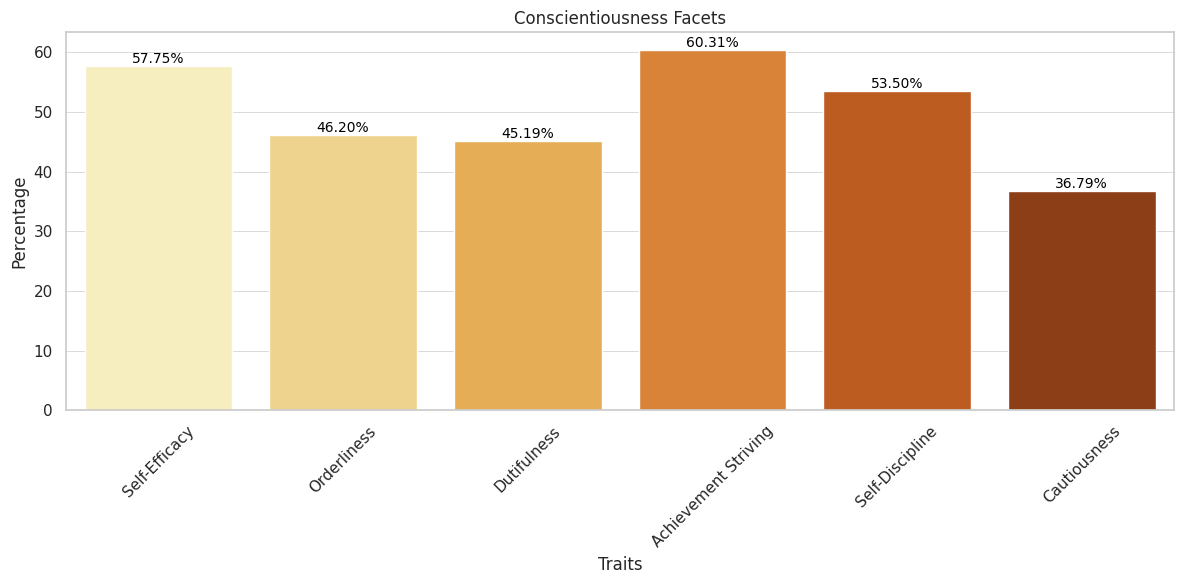
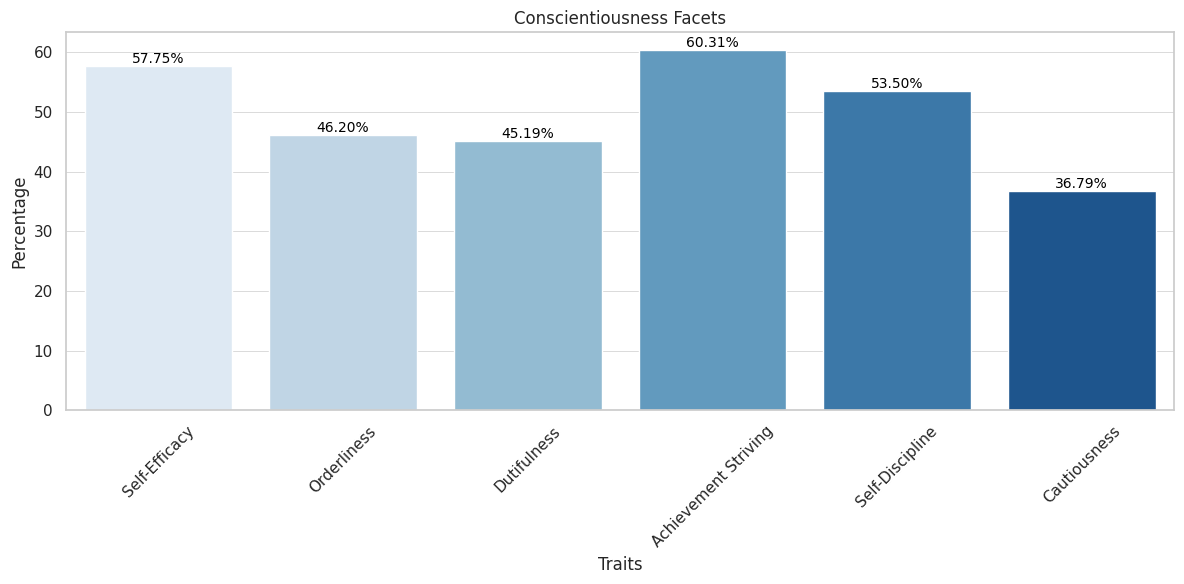
feat: Color standardization :alien:

diff --git a/products/persona-predict/notebooks/utility.py b/products/persona-predict/notebooks/utility.py
@@ -158,10 +158,16 @@ def plot_big_five_bar(score_big_five: list) -> str:
         score_big_five[0], orient="index", columns=["Percentage"]
     ).reset_index()
     df = df.rename(columns={"index": "Trait"})
+    custom_colors = ["#577EF3", "#3996DF", "#43C386", "#FDCB1E", "#F57C1A"]
 
     plt.figure(figsize=(12, 6))
     sns.barplot(
-        data=df, x="Trait", y="Percentage", palette="viridis", hue="Trait", legend=False
+        data=df,
+        x="Trait",
+        y="Percentage",
+        palette=custom_colors,
+        hue="Trait",
+        legend=False,
     )
 
     for x, y in zip(df["Percentage"], plt.gca().patches):
@@ -230,7 +236,7 @@ def plot_big_five_openness_facets_bar(score_openness_facets: list) -> str:
     df = pd.DataFrame({"Trait": traits, "Percentage": scores})
 
     plt.figure(figsize=(12, 6))
-    colors = sns.color_palette("RdPu", len(traits))
+    colors = sns.color_palette("light:b", len(traits))
 
     sns.barplot(
         data=df, x="Trait", y="Percentage", palette=colors, hue="Trait", legend=False
@@ -269,7 +275,7 @@ def plot_big_five_conscientiousness_facets_bar(
     df = pd.DataFrame({"Trait": traits, "Percentage": scores})
 
     plt.figure(figsize=(12, 6))
-    colors = sns.color_palette("YlOrBr", len(traits))
+    colors = sns.color_palette("Blues", len(traits))
 
     sns.barplot(
         data=df, x="Trait", y="Percentage", palette=colors, hue="Trait", legend=False
@@ -310,7 +316,7 @@ def plot_big_five_extraversion_facets_bar(
     df = pd.DataFrame({"Trait": traits, "Percentage": scores})
 
     plt.figure(figsize=(12, 6))
-    colors = sns.color_palette("Greens", len(traits))
+    colors = sns.light_palette("seagreen", len(traits))
 
     sns.barplot(
         data=df, x="Trait", y="Percentage", palette=colors, hue="Trait", legend=False
@@ -351,7 +357,7 @@ def plot_big_five_agreeableness_facets_bar(
     df = pd.DataFrame({"Trait": traits, "Percentage": scores})
 
     plt.figure(figsize=(12, 6))
-    colors = sns.color_palette("Blues", len(traits))
+    colors = sns.color_palette("light:y", len(traits))
 
     sns.barplot(
         data=df, x="Trait", y="Percentage", palette=colors, hue="Trait", legend=False
@@ -392,7 +398,7 @@ def plot_big_five_neuroticism_facets_bar(
     df = pd.DataFrame({"Trait": traits, "Percentage": scores})
 
     plt.figure(figsize=(12, 6))
-    colors = sns.color_palette("Reds", len(traits))
+    colors = sns.color_palette("Oranges", len(traits))
 
     sns.barplot(
         data=df, x="Trait", y="Percentage", palette=colors, hue="Trait", legend=False
